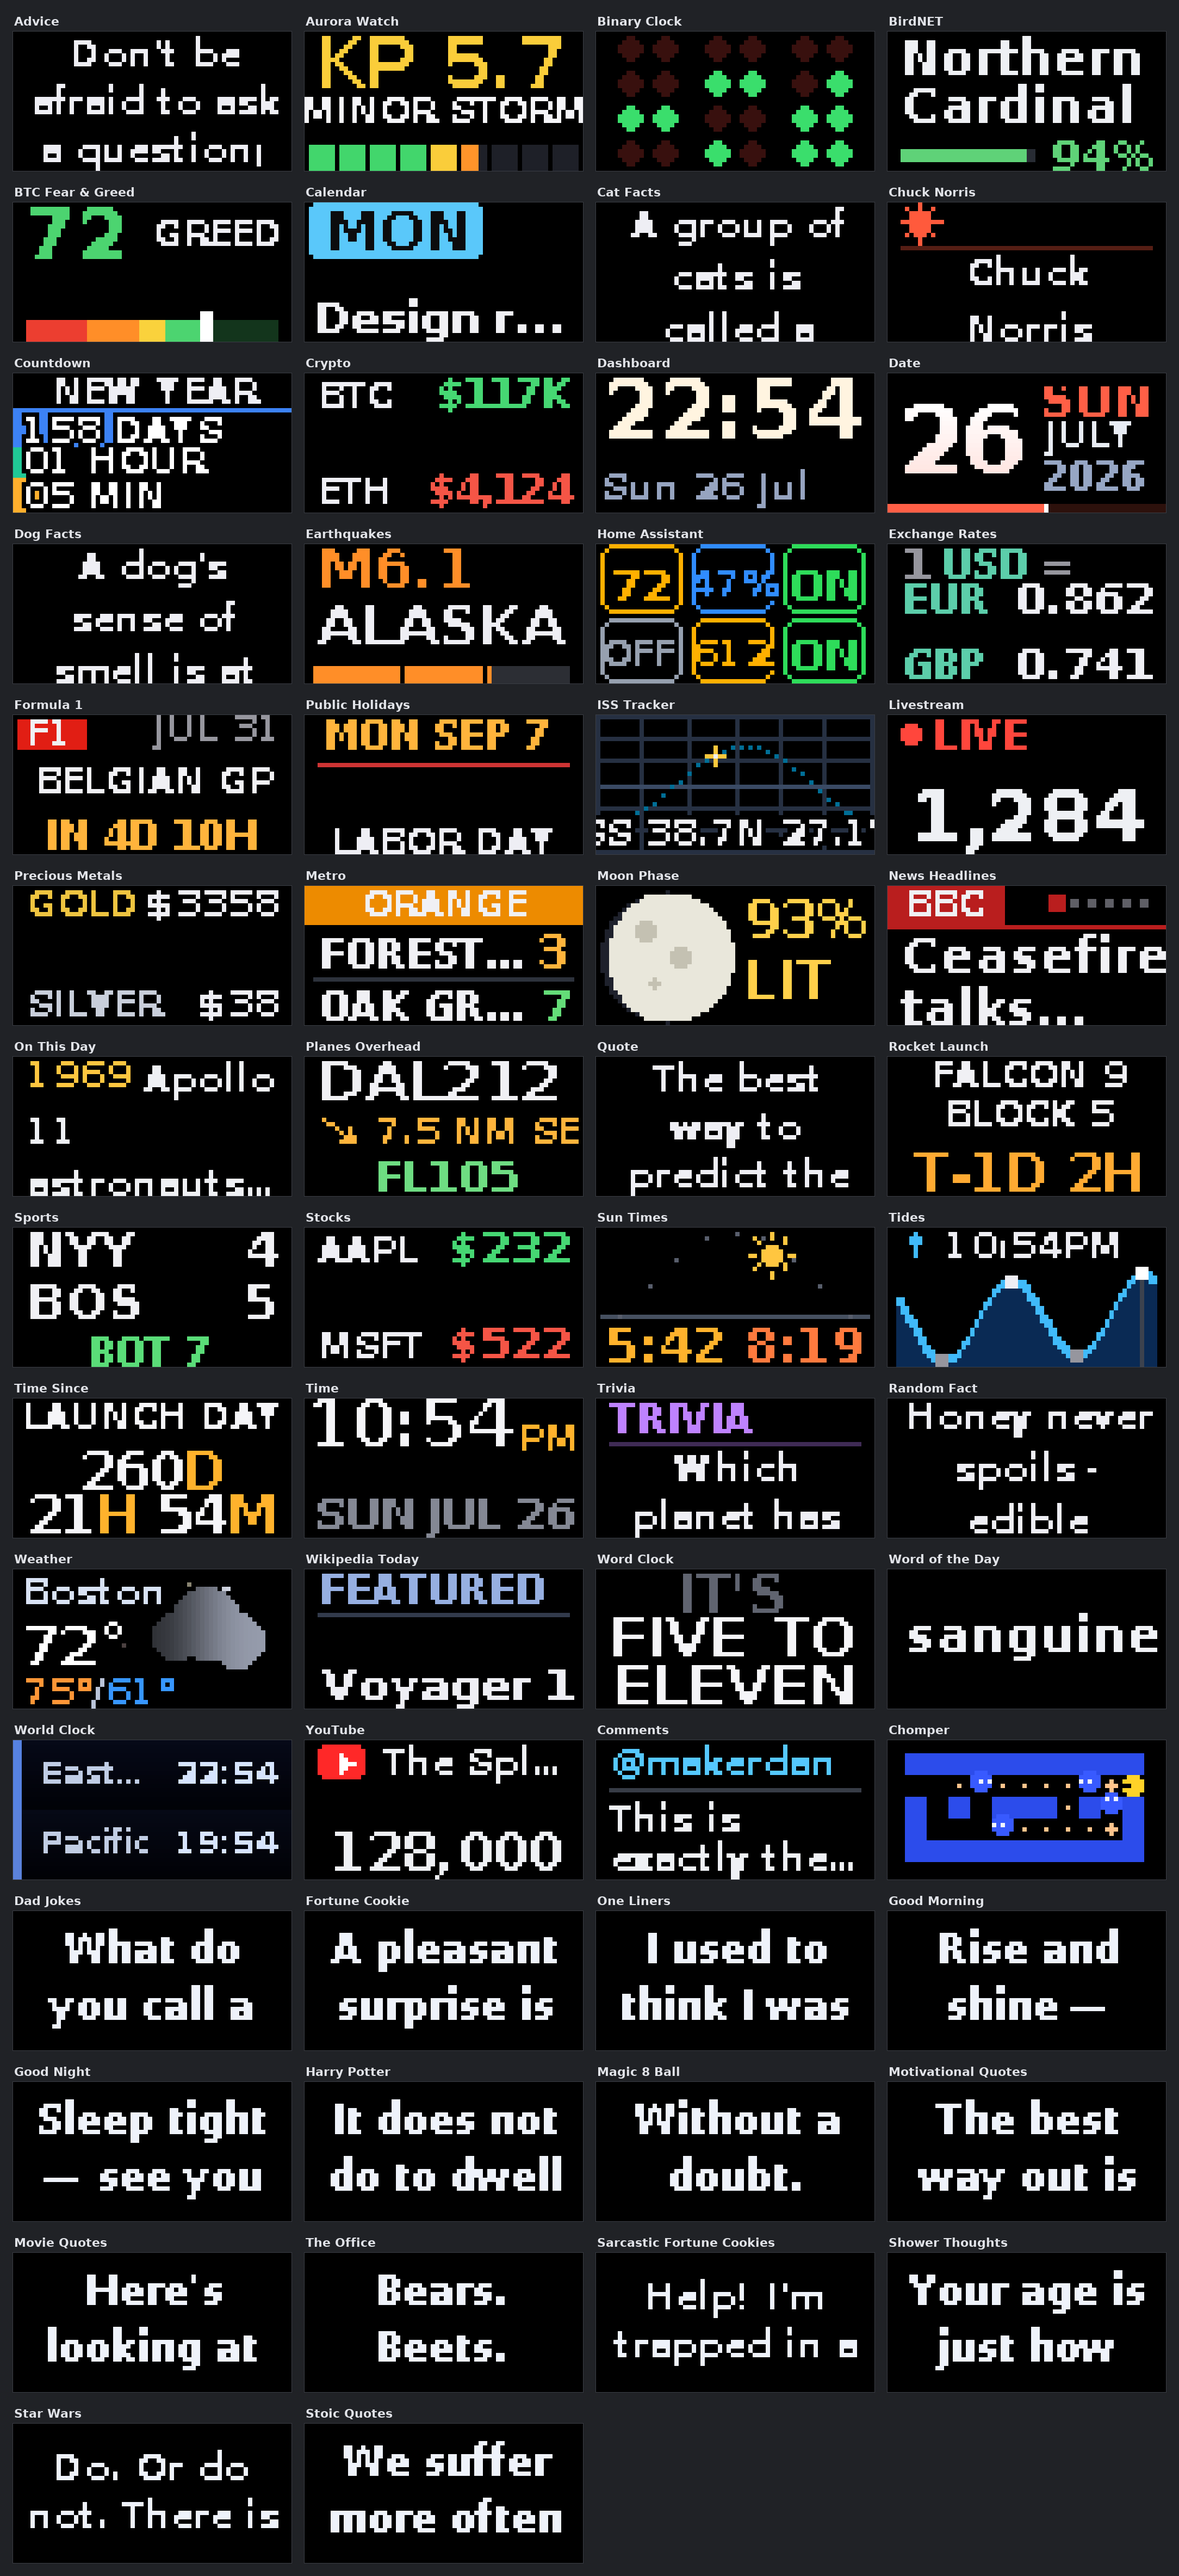
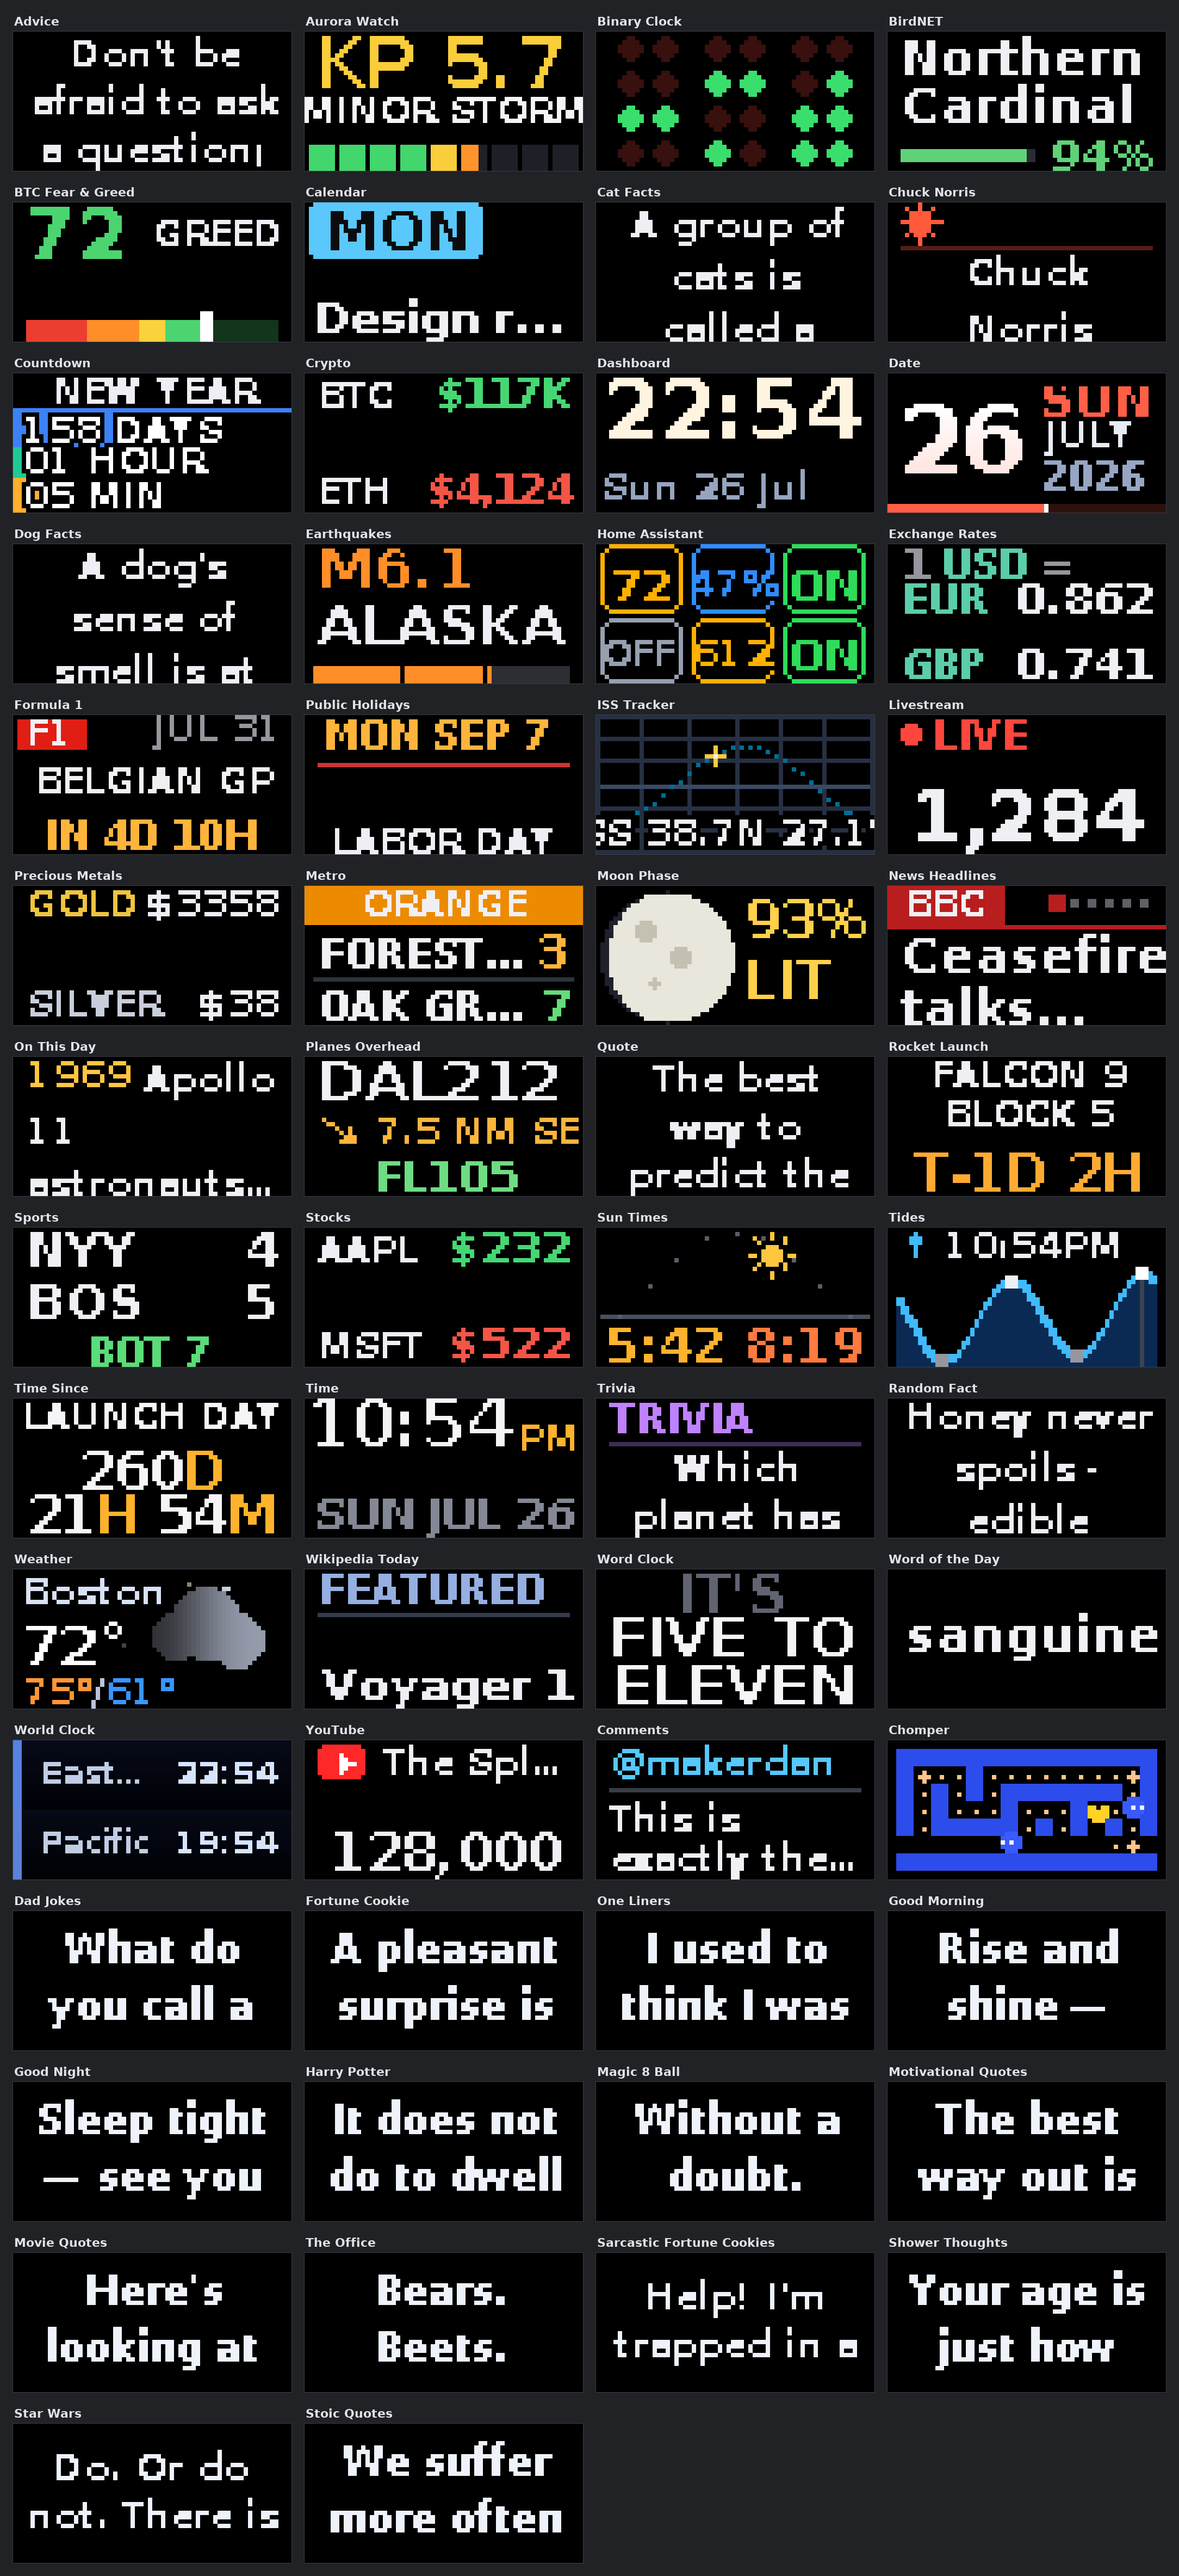
Chomper: slimmer lattice — 5px cells on tall panels, 4px on short
Walls and lanes each lose a pixel of chunk; a 64px panel now plays five
corridor rows (was four) across ~51 columns, a 32px panel three (was two),
and the pellet field grows roughly half again. The 5px sprites fit the 5px
lanes exactly; on 4px lanes they overlap the walls by a pixel — the arcade
original's sprites were oversized the same way. Screenshots regenerated.

Changed region(s): [[0.7417, 0.6831, 0.9889, 0.7452]]

diff --git a/apps/canvas-chomper/app.py b/apps/canvas-chomper/app.py
@@ -251,7 +251,7 @@ def _draw_ghost(canvas, x, y, r, col, d):
 
 def fetch_matrix(settings, canvas):
     W, H = canvas.width, canvas.height
-    c = 6 if H >= 30 else 4                            # one-cell corridors need small cells
+    c = 5 if H >= 48 else 4                            # slim cells: 5px lanes fit the 5px sprites
     cols, rows = max(11, W // c), max(5, H // c)
     if cols * c > W or rows * c > H:                   # tiny panel: shrink to fit
         c = min(W // cols, H // rows)
